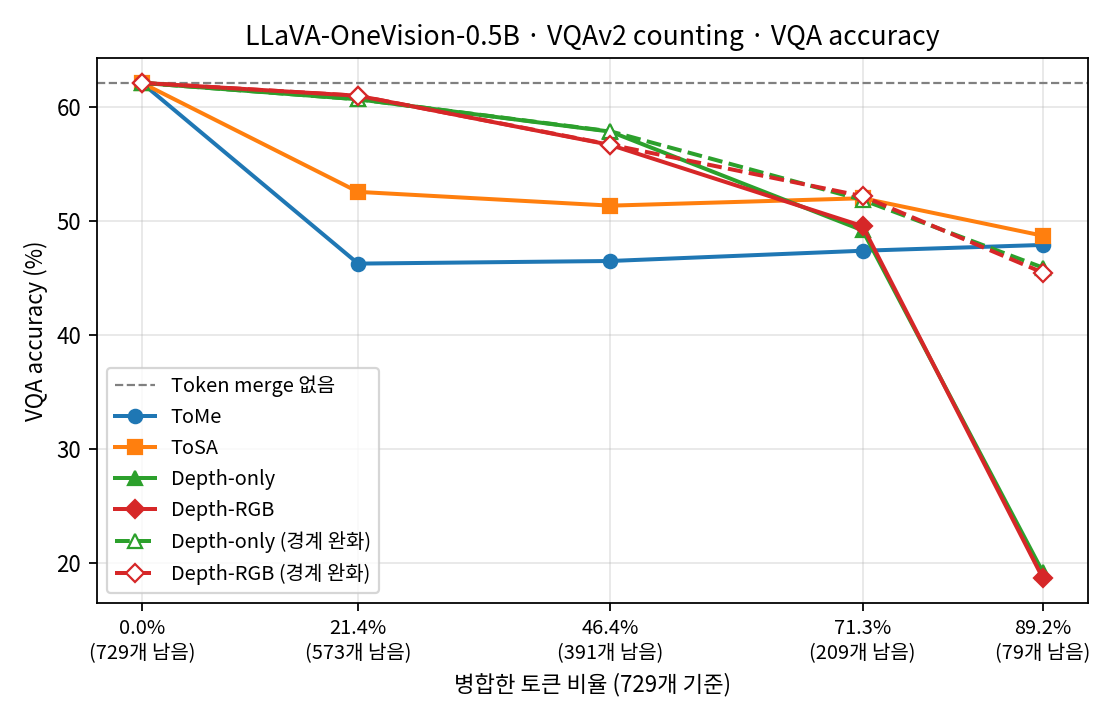
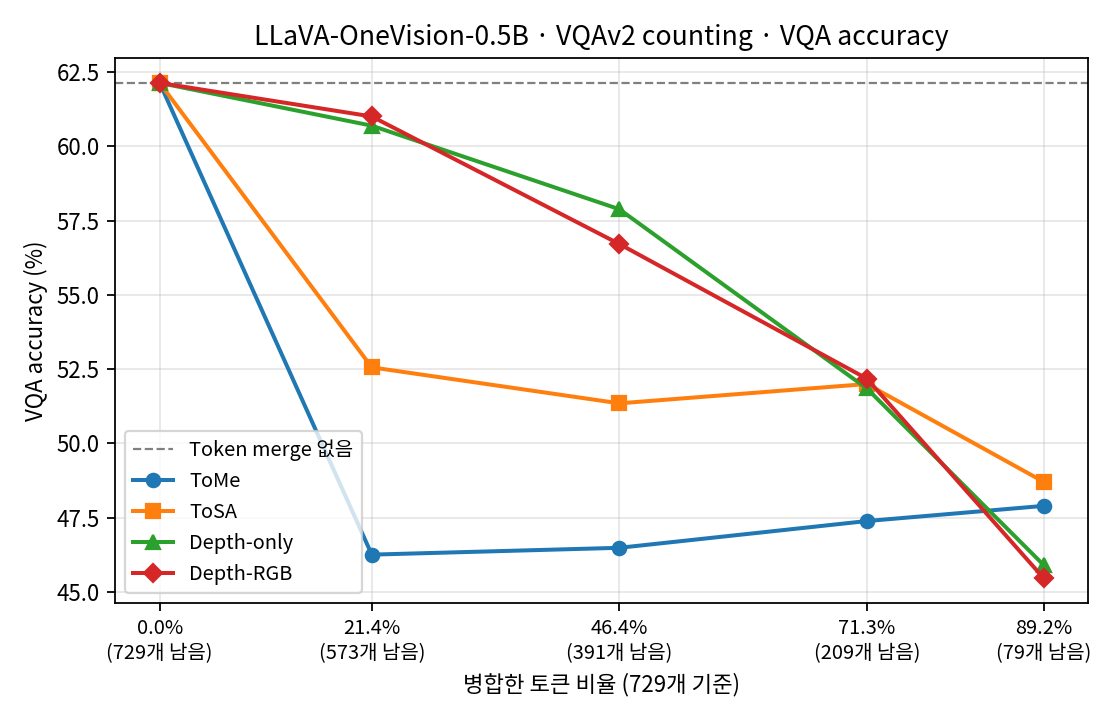
Show only the latest Depth methods in the README
The README tables, summary and figures now use the per-image boundary
threshold Depth methods only, next to the reused Token merge 없음, ToMe and
ToSA answers. The fixed-threshold Depth results and their post-hoc subset
analysis move to a history table without numbers; their raw answers stay in
the original result folders. readme_tables.py and plot_results.py replace the
original Depth rows with the relaxed ones instead of adding them.

diff --git a/scripts/plot_results.py b/scripts/plot_results.py
@@ -3,7 +3,8 @@
 and one figure per method showing all metrics.
 
 usage: python scripts/plot_results.py RESULTS_DIR FIGURE_DIR [RELAXED_DIR]
-With RELAXED_DIR (results/2026-10-28_depth_relaxed), the relaxed Depth methods of the same model are added (dashed).
+With RELAXED_DIR (results/2026-10-28_depth_relaxed), the relaxed Depth methods of the same model replace the original
+Depth-only and Depth-RGB curves (the README shows only the latest Depth methods).
 """
 import csv
 import json
@@ -17,8 +18,6 @@ import matplotlib.pyplot as plt  # noqa: E402
 plt.rcParams['font.family'] = ['Noto Sans CJK KR', 'DejaVu Sans']
 METHODS = {'ToMe': ('#1f77b4', 'o'), 'ToSA': ('#ff7f0e', 's'),
            'Depth-only': ('#2ca02c', '^'), 'Depth-RGB': ('#d62728', 'D')}
-RELAXED = {'Depth-only-relaxed': ('#2ca02c', '^', 'Depth-only (경계 완화)'),
-           'Depth-RGB-relaxed': ('#d62728', 'D', 'Depth-RGB (경계 완화)')}
 METRICS = {('vqav2_count', 'vqa_accuracy'): ('VQAv2 counting · VQA accuracy', '#9467bd', 'o'),
            ('vqav2_count', 'rca'): ('VQAv2 counting · RCA', '#8c564b', 's'),
            ('gqa', 'exact_match'): ('GQA · Exact match', '#17becf', '^')}
@@ -59,27 +58,26 @@ def main():
     rows = list(csv.DictReader((results / 'summary.csv').open()))
     protocol = json.loads((Path(__file__).resolve().parents[1] / 'experiments' / results.name / 'protocol.json').read_text())
     model = MODEL_NAMES[protocol['model']]
-    methods = {m: (c, k, m, '-') for m, (c, k) in METHODS.items()}
     if len(sys.argv) > 3:
         relaxed = Path(sys.argv[3]).resolve()
         models = json.loads((relaxed.parents[1] / 'experiments' / relaxed.name / 'protocol.json').read_text())['models']
         key = next(k for k, v in models.items() if v['name'] == protocol['model'])
-        rows += [r for r in csv.DictReader((relaxed / 'summary.csv').open()) if r['model'] == key]
-        methods.update({m: (c, k, label, '--') for m, (c, k, label) in RELAXED.items()})
+        rows = [r for r in rows if r['method'] not in ('Depth-only', 'Depth-RGB')]
+        rows += [{**r, 'method': r['method'].removesuffix('-relaxed')}
+                 for r in csv.DictReader((relaxed / 'summary.csv').open()) if r['model'] == key]
     out = Path(sys.argv[2])
     out.mkdir(parents=True, exist_ok=True)
-    for method, (_, _, name, _) in methods.items():
+    for method in METHODS:
         fig, ax = plt.subplots(figsize=(7, 4.5))
         for (dataset, metric), (label, color, m) in METRICS.items():
             ax.plot(*curve(rows, dataset, method, metric), color=color, marker=m, lw=1.8, ms=6, label=label)
-        finish(ax, fig, rows, '점수 (%)', f'{model} · {name}', out / f'method_{method.lower()}.png')
+        finish(ax, fig, rows, '점수 (%)', f'{model} · {method}', out / f'method_{method.lower()}.png')
     for dataset, metric, title, name in FIGURES:
         base = next(r for r in rows if r['dataset'] == dataset and r['method'] == 'Dense')
         fig, ax = plt.subplots(figsize=(7, 4.5))
         ax.axhline(float(base[metric]), color='gray', ls='--', lw=1, label='Token merge 없음')
-        for method, (color, marker, label, ls) in methods.items():
-            ax.plot(*curve(rows, dataset, method, metric), color=color, marker=marker, ls=ls, lw=1.8, ms=6,
-                    mfc='white' if ls == '--' else color, label=label)
+        for method, (color, marker) in METHODS.items():
+            ax.plot(*curve(rows, dataset, method, metric), color=color, marker=marker, lw=1.8, ms=6, label=method)
         finish(ax, fig, rows, f'{title.split(" · ")[1]} (%)', f'{model} · {title}', out / name)
 
 

diff --git a/scripts/readme_tables.py b/scripts/readme_tables.py
@@ -2,7 +2,8 @@
 """Print the README result tables (one per dataset and merge strength) from summary.csv.
 
 usage: python scripts/readme_tables.py RESULTS_DIR [RELAXED_DIR]
-With RELAXED_DIR (results/2026-10-28_depth_relaxed), the relaxed Depth methods of the same model are added as extra rows.
+With RELAXED_DIR (results/2026-10-28_depth_relaxed), the relaxed Depth methods of the same model replace the original
+Depth-only and Depth-RGB rows (the README shows only the latest Depth methods).
 """
 import csv
 import json
@@ -11,27 +12,25 @@ from pathlib import Path
 
 ROOT = Path(__file__).resolve().parents[1]
 METHODS = ['ToMe', 'ToSA', 'Depth-only', 'Depth-RGB']
-LABELS = {'Depth-only-relaxed': 'Depth-only (경계 완화)', 'Depth-RGB-relaxed': 'Depth-RGB (경계 완화)'}
 COLUMNS = {'vqav2_count': [('vqa_accuracy', 'VQA accuracy (%)'), ('rca', 'RCA (%)')],
            'gqa': [('exact_match', 'Exact match (%)')]}
 TITLE = {'vqav2_count': 'VQAv2 counting', 'gqa': 'GQA'}
 
 
 def relaxed_rows(results, relaxed):
-    # Keep the relaxed rows of the model that the original experiment used.
+    # Keep the relaxed rows of the model that the original experiment used, under the plain method names.
     name = json.loads((ROOT / 'experiments' / results.name / 'protocol.json').read_text())['model']
     models = json.loads((ROOT / 'experiments' / relaxed.name / 'protocol.json').read_text())['models']
     key = next(k for k, v in models.items() if v['name'] == name)
-    return [r for r in csv.DictReader((relaxed / 'summary.csv').open()) if r['model'] == key]
+    rows = [r for r in csv.DictReader((relaxed / 'summary.csv').open()) if r['model'] == key]
+    return [{**r, 'method': r['method'].removesuffix('-relaxed')} for r in rows]
 
 
 def main():
     out = Path(sys.argv[1]).resolve()
     rows = list(csv.DictReader((out / 'summary.csv').open()))
-    methods = list(METHODS)
     if len(sys.argv) > 2:
-        rows += relaxed_rows(out, Path(sys.argv[2]).resolve())
-        methods += list(LABELS)
+        rows = [r for r in rows if r['method'] not in ('Depth-only', 'Depth-RGB')] + relaxed_rows(out, Path(sys.argv[2]).resolve())
     for dataset, columns in COLUMNS.items():
         data = [r for r in rows if r['dataset'] == dataset]
         if not data:
@@ -44,13 +43,13 @@ def main():
             print(f'### {TITLE[dataset]} · {merged}개 병합 ({100 * merged / 729:.1f}% 병합, 729 → {remaining}개 남음)\n')
             print('| 방법 | ' + ' | '.join(c[1] for c in columns) + ' | 실행 성공 |')
             print('|---|' + '---:|' * (len(columns) + 1))
-            best = {m: max(float(cell[x][m]) for x in methods) for m, _ in columns}
+            best = {m: max(float(cell[x][m]) for x in METHODS) for m, _ in columns}
             n = base['n']
             print(f'| *Token merge 없음* | ' + ' | '.join(f"*{float(base[m]):.2f}*" for m, _ in columns) + f' | {base["completed"]}/{n} |')
-            for method in methods:
+            for method in METHODS:
                 r = cell[method]
                 values = [f'**{float(r[m]):.2f}**' if float(r[m]) == best[m] else f'{float(r[m]):.2f}' for m, _ in columns]
-                print(f'| {LABELS.get(method, method)} | ' + ' | '.join(values) + f' | {r["completed"]}/{n} |')
+                print(f'| {method} | ' + ' | '.join(values) + f' | {r["completed"]}/{n} |')
             print()
 
 
